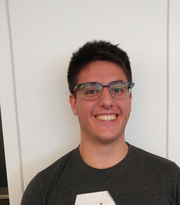
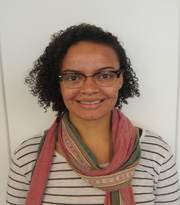
added new news and events, as well as photos

diff --git a/people.html b/people.html
@@ -79,8 +79,15 @@
                             
                             
 							  <a class="image"><img src="images/team/9_resized.png" alt=""></a>
-									<h7>Dustin Sokolowski</h7>
+									<h7>Lebohang Radebe</h7>
 									<p1>Undergraduate Researcher</p1>
+                            
+                                
+                        <a class="image"><img src="images/team/13_resized.png" alt=""></a>
+									<h7>Jaryd Hunter</h7>
+									<p1>Undergraduate Researcher</p1>
+                            
+                        
                             
 															
 						</div>
@@ -103,6 +110,12 @@
                             <a class="image"><img src="images/team/11_resized.jpg" alt=""></a>
 									<h7>Kingsley Chang</h7>
 									<p1>Graduate Researcher</p1>
+                            
+                            
+                                    <a class="image"><img src="images/team/15_resized.png" alt=""></a>
+									<h7>Angeline Yasodhara</h7>	<p1>Undergraduate Researcher</p1>
+                            
+                            
                            
 						</div>
 						<div class="4u">
@@ -124,9 +137,18 @@
                             <a class="image"><img src="images/team/12_resized.jpg" alt=""></a>
 									<h7>Menjie Mai</h7>
 									<p1>Undergraduate Researcher</p1>
+                            
+                            
+							  <a class="image"><img src="images/team/14_resized.png" alt=""></a>
+									<h7>Olivia Shea</h7>
+									<p1>Administrative Assistant</p1>
 				
                             
                         </div>
+                        
+                            
+				
+                            
                         
 					</div>
 				</section>

diff --git a/index.html b/index.html
@@ -86,6 +86,11 @@
 							<h3>Lab News</h3>
 							<div id="box" class = "text-left" style="overflow-y: scroll; overflow-x:hidden; height:350px; width:350px; margin-bottom: 1cm; border:2px; border-style: 0; border-color:lightgrey; padding: 0.1em;"> 
                                     <ul>
+                                        <li><b>May 2016</b>: 
+                                            <p>Summer students join the lab. Welcome Lebo, Angeline, Jaryd, and muhammad</p> </li>
+                                        <li><b>April 2016</b>: 
+                                            <p>Lauren Erdman and Ben Brew goes to Washing DC for the annual AACR conferecne to 
+                                            present their work</p> </li>
                                         <li><b>August 2016</b>: 
                                           <p>Ben talks about machine learning and medicine at data fest in Chicago</p> </li>
                                       <li><b>August 2016</b>: 
